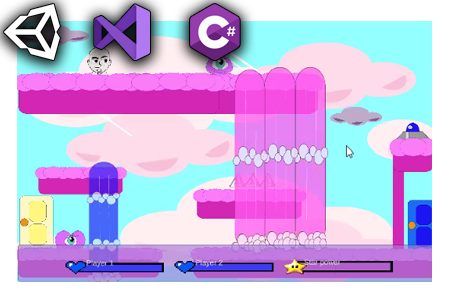
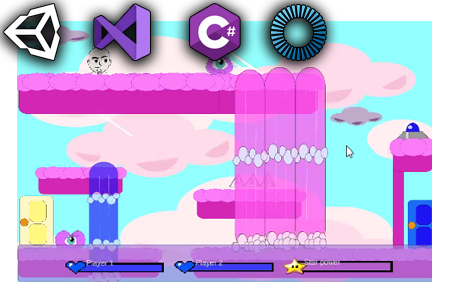
made graphic assets and added portfolio projects to db

Changed region(s): [[0.56, 0.0, 0.7467, 0.2384]]

diff --git a/Portfolio/Data/PortfolioDbContext.cs b/Portfolio/Data/PortfolioDbContext.cs
@@ -24,7 +24,25 @@ namespace Portfolio.Data
                     Id = -1,
                     Title = "SmallBoi, The Game",
                     SourceURL = "images/smallboi.png",
-                    Description = "add some words here"
+                    Description = "add some words here",
+                    RepoLink = "https://github.com/AmeiliaAndTheSmallBois/SmallBoi/tree/main"
+                },
+                new Project
+                {
+                    Id = 2,
+                    Title = "LiteBerry Pi",
+                    SourceURL = "images/liteberrypi.png",
+                    Description = "blah blah blah blah signalR",
+                    RepoLink = "https://github.com/Lite-Berry-pi/Lite-Berry-Pi"
+                },
+                new Project
+                {
+                    Id = 3,
+                    Title = "React Minesweeper",
+                    SourceURL = "images/minesweeper.png",
+                    Description = "it's minesweeper",
+                    RepoLink = "https://github.com/scottfalbo/react-minesweeper-v2",
+                    DeployedLink = "https://scottfalbo.github.io/react-minesweeper-v2/"
                 }
             );
         }

diff --git a/Portfolio/Models/Project.cs b/Portfolio/Models/Project.cs
@@ -15,5 +15,7 @@ namespace Portfolio.Models
         public string SourceURL { get; set; }
         [Required]
         public string Description { get; set; }
+        public string RepoLink { get; set; }
+        public string DeployedLink { get; set; }
     }
 }
